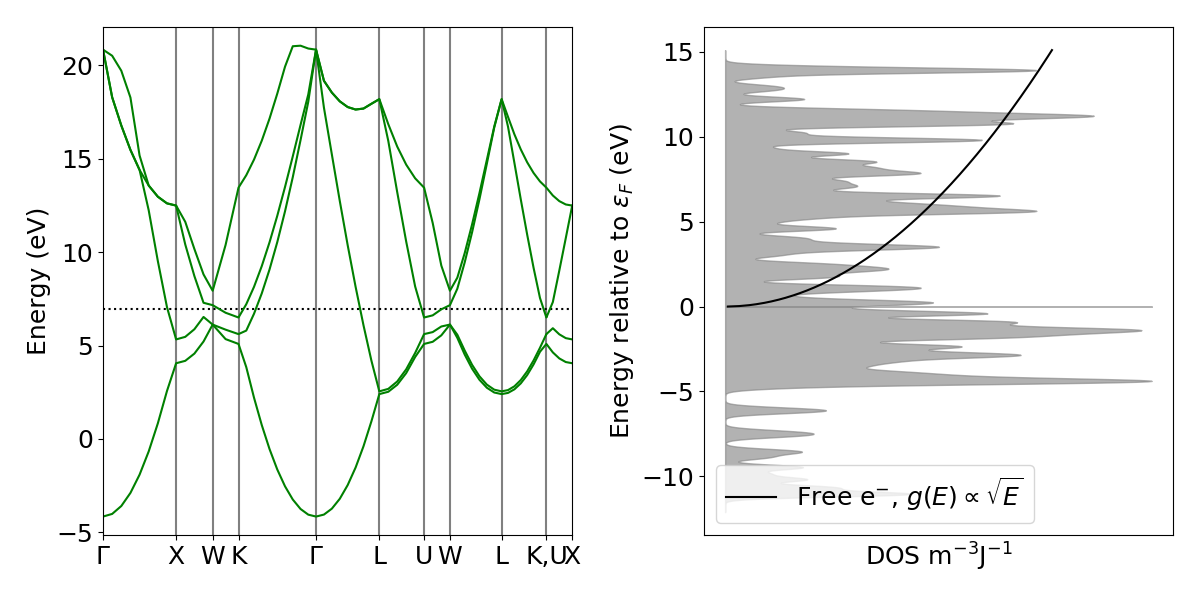
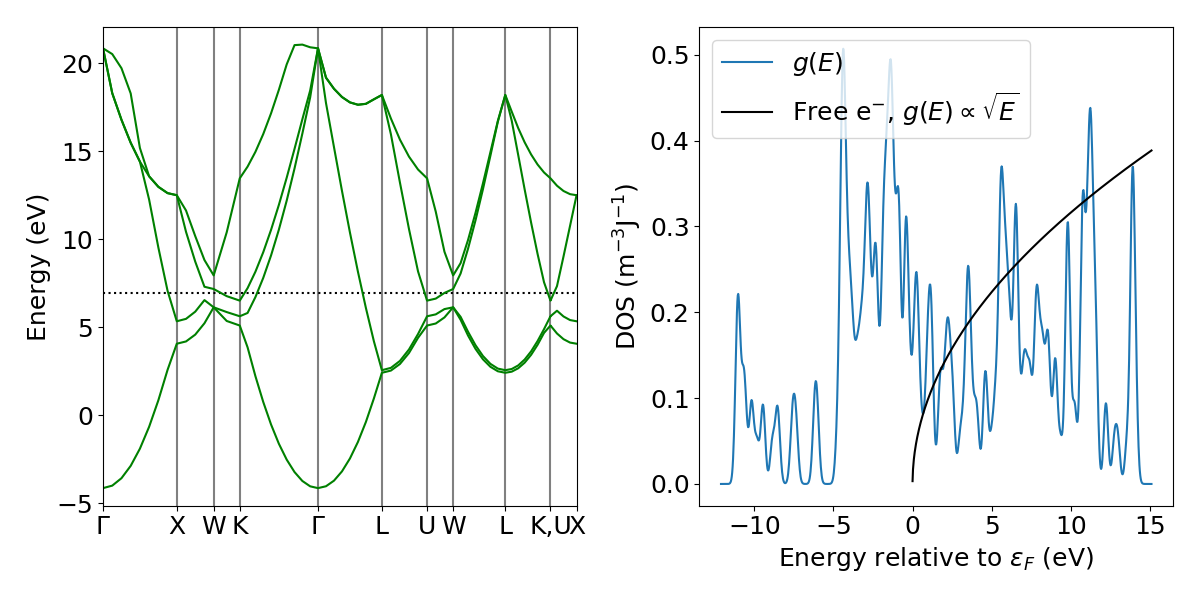
Rerun task 5 with more cores and using the same method as in task6

diff --git a/ComputationalMaterialsAndMolecularphysics/HW5/task5/task5.py b/ComputationalMaterialsAndMolecularphysics/HW5/task5/task5.py
@@ -33,8 +33,8 @@ for clust in allClust:
     N = len(atoms.positions)
     if(N<100):
         start = time.time()
-        # if world.rank == 0:
-        print(f'Calculating EOS for Al{N}')
+        if world.rank == 0:
+            print(f'Calculating EOS for Al{N}')
 
         # Define electron calculator (GPAW)
         calc = GPAW(
@@ -43,22 +43,44 @@ for clust in allClust:
         )  # Use the same calculator as in task6
         atoms.set_calculator(calc)
         pot_e = atoms.get_potential_energy()  # Self-constistently optimize the electron density
-        # if world.rank == 0:
-        print(f'Cluster Al{N} finished potential energy per atom: {pot_e / N:.2f} eV')
+        if world.rank == 0:
+            print(f'Cluster Al{N} finished potential energy per atom: {pot_e / N:.2f} eV')
 
         # Get the electronic DOS
-        dos = DOS(calc, npts=800, width=0.2)
+        dos = DOS(calc, npts=800, width=0.5)
+        
         e = dos.get_energies()
         d = dos.get_dos()
-
         e_f = calc.get_fermi_level()  
         # e -= e_f  # Subtract the Fermi level from the energy    
         
+        ##### Get the DOS using the same method as in task6
+        print('Electronic band structure calculated')
+        kpts = {'size': (40,40,40)}
+        calc.set(
+            kpts = kpts, 
+            fixdensity=True,
+            symmetry='off',  
+        )
+        # Fix the potential
+        calc.get_potential_energy()
+        e, dos = calc.get_dos(spin=0, npts=1001, width=0.5)  # Get energy and density of states
+        e_f = calc.get_fermi_level()  
+
+        Edos = {
+            'e': e, 
+            'dos': dos,
+            'fermi': e_f
+        } 
+
+        # Save results
+        pickle.dump( Edos, open( f'./dos/Edos_Al{N}.p', "wb" ) )  # Save the electronic DOS
+
         end = time.time()
-        # if world.rank == 0:
-        print(f'Cluster Al{N} finished ---- Time: {(end-start):.2f} s')
+        if world.rank == 0:
+            print(f'Cluster Al{N} finished ---- Time: {(end-start):.2f} s')
         eosDB.write(atoms, data={'energy': e, 'DOS': d, 'fermi': e_f})
         calc.write(f'./calculators/calc{N}.gpw')  # Save the calculator
     else:
-        # if world.rank == 0:
-        print(f'Skipping Al{N}')
+        if world.rank == 0:
+            print(f'Skipping Al{N}')

diff --git a/ComputationalMaterialsAndMolecularphysics/HW5/task5/old_width=0.2/plot_task5.py b/ComputationalMaterialsAndMolecularphysics/HW5/task5/old_width=0.2/plot_task5.py
@@ -1,0 +1,44 @@
+# External imports
+import numpy as np
+import matplotlib.pyplot as plt
+from mpl_toolkits.mplot3d import Axes3D
+from tqdm import tqdm
+
+# ASE
+from ase import Atoms
+from ase.db import connect
+
+
+# Set plot params
+plt.rc('font', size=18)          # controls default text sizes
+plt.rc('axes', titlesize=18)     # fontsize of the axes title
+plt.rc('axes', labelsize=18)     # fontsize of the x and y labels
+plt.rc('xtick', labelsize=18)    # fontsize of the tick labels
+plt.rc('ytick', labelsize=18)    # fontsize of the tick labels
+plt.rc('legend', fontsize=18)    # legend fontsize
+
+# Connect to DB
+eosDB = connect('./eos.db')
+
+# Extract and plot convergence data
+# fig, ax = plt.subplots(figsize=(8,6))
+
+fig = plt.figure(figsize=(9,6))
+ax = fig.add_subplot(111, projection='3d')
+dbList = list(eosDB.select())
+
+for i,row in enumerate(dbList):
+    atoms = row.toatoms()
+    N = len(atoms.positions)
+    dos = row.data['DOS']
+    e = row.data['energy'] - row.data['fermi']
+    ax.plot(e, N*np.ones(len(e)), dos, alpha=1-i*0.1, linewidth=2, label=f'Al{N}')
+
+ax.legend(loc='upper left')
+ax.set_xlabel(r'Energy relative to $\epsilon_F$ (eV)', labelpad=15)
+ax.set_ylabel(r'Cluster size $N$', labelpad=15)
+ax.set_zlabel(r'DOS ($\rm m^{-3}J^{-1}$)', labelpad=10) # TODO set proper units
+ax.grid()
+plt.tight_layout()
+plt.savefig('dos_task5')
+plt.show()

diff --git a/ComputationalMaterialsAndMolecularphysics/HW5/task6/old_width=0.2/plot_task6.py b/ComputationalMaterialsAndMolecularphysics/HW5/task6/old_width=0.2/plot_task6.py
@@ -19,23 +19,6 @@ plt.rc('xtick', labelsize=18)    # fontsize of the tick labels
 plt.rc('ytick', labelsize=18)    # fontsize of the tick labels
 plt.rc('legend', fontsize=18)    # legend fontsize
 
-# Connect to DB
-bulkDB = connect('./bulk.db')
-
-# Extract and plot convergence data
-fig, ax = plt.subplots(figsize=(8,6))
-dbList = list(bulkDB.select())
-
-ks = dbList[0].data['ks']
-E = dbList[0].data['energies']
-ax.plot(ks, E, linewidth=2)
-
-ax.set_xlabel(r'Number of $k$-points')
-ax.set_ylabel('Energy (eV)')
-ax.grid()
-plt.tight_layout()
-plt.savefig('kConvergence.png')
-
 # Extract and plot band electronic band structure and DOS
 bs = pickle.load(open( "Ebs.p", "rb" ))
 d = pickle.load(open( "Edos.p", "rb" ))
@@ -65,7 +48,6 @@ freeE = 0.1*np.sqrt(ePos)  # TODO set proper scale
 ax[1].plot(ePos, freeE, color='k', label=r'Free $\rm e^{-}$, $g(E) \propto \sqrt{E}$')
 ax[1].legend(loc='best')
 # ax[1].set_xticks([])
-ax[1].set_xlim(-8,6)
 ax[1].set_ylabel(r'DOS ($\rm m^{-3}J^{-1}$)') # TODO set proper units
 ax[1].set_xlabel(r'Energy relative to $\epsilon_F$ (eV)')
 # ax[1].set_ylim(lims)
